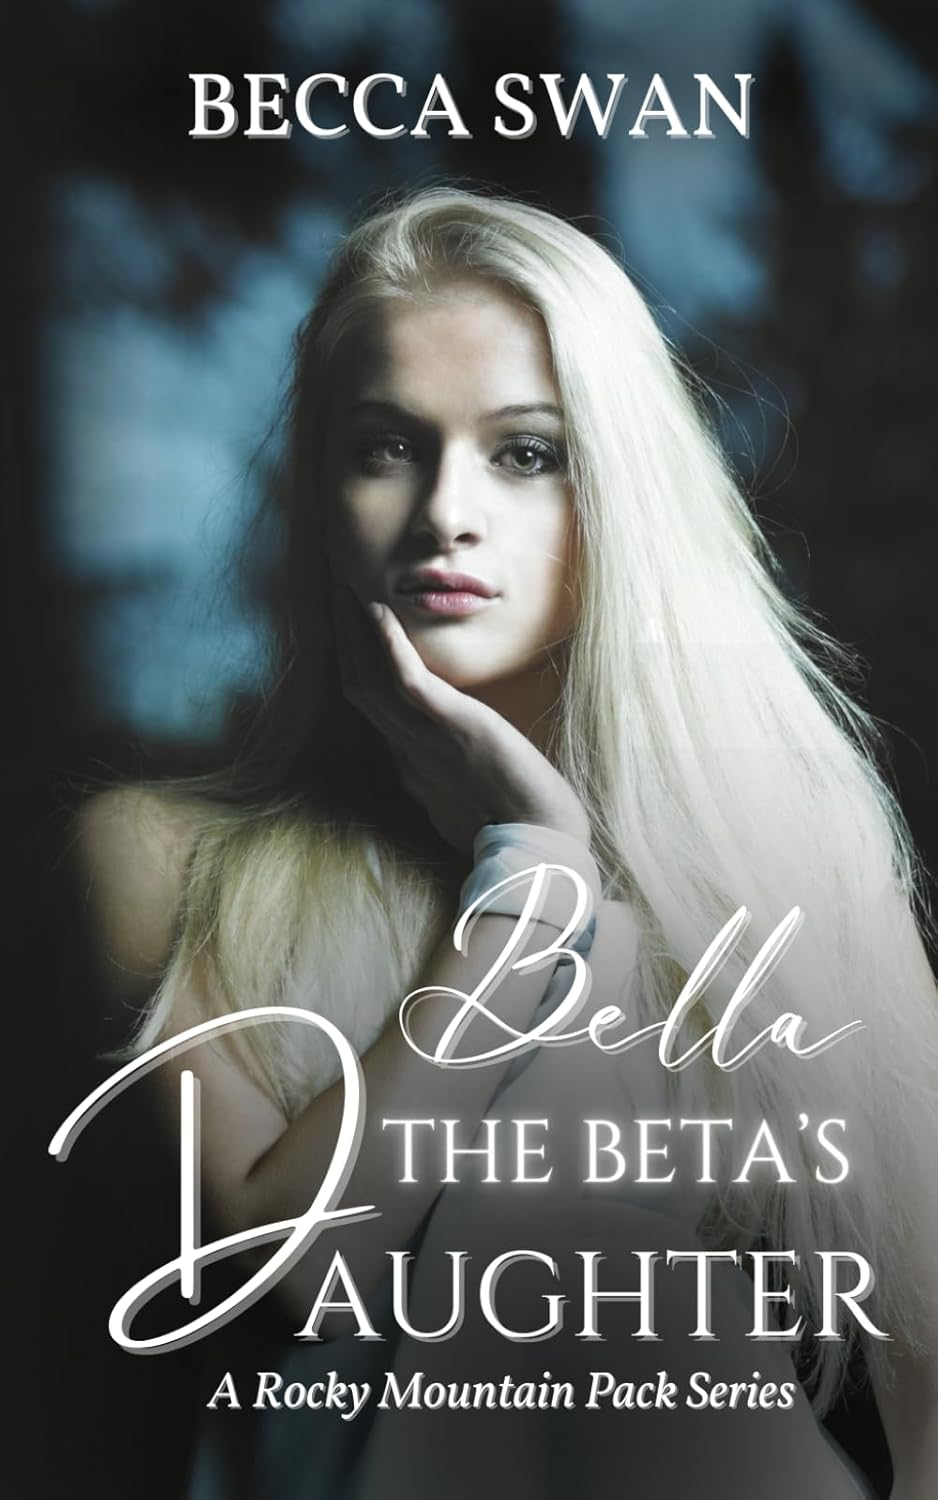
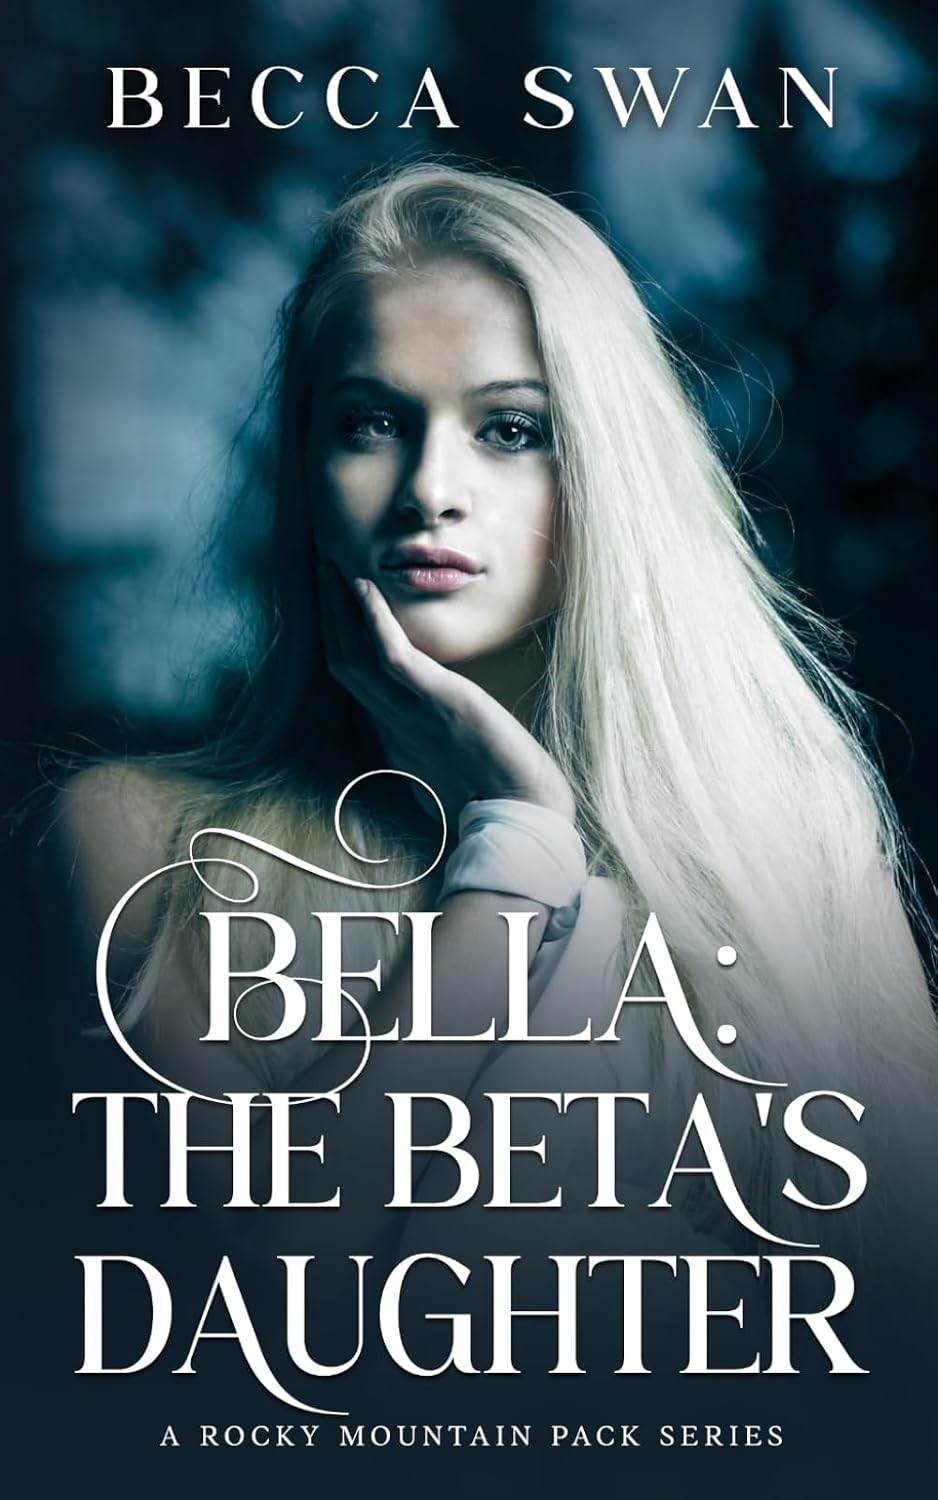
Refresh Amazon covers and correct author tagline

diff --git a/index.html b/index.html
@@ -3,15 +3,15 @@
   <head>
     <meta charset="utf-8">
     <meta name="viewport" content="width=device-width, initial-scale=1">
-    <title>Becca Swan | Author | Writing Strong Female Leads Where It’s Always Darkest Before the Dawn</title>
-    <meta name="description" content="Official website of author Becca Swan. Shifter romance, Christmas stories and psychological suspense with strong female leads, where it’s always darkest before the dawn.">
+    <title>Becca Swan | Author | Writing Strong Female Leads Where It’s Always Darkest Before Dawn</title>
+    <meta name="description" content="Official website of author Becca Swan. Shifter romance, Christmas stories and psychological suspense with strong female leads, where it’s always darkest before dawn.">
     <meta name="theme-color" content="#0c0a0a">
     <meta name="color-scheme" content="dark">
     <link rel="canonical" href="https://www.beccaswan.com/">
     <meta property="og:type" content="website">
     <meta property="og:site_name" content="Becca Swan">
     <meta property="og:title" content="Becca Swan | Author">
-    <meta property="og:description" content="Official website of author Becca Swan. Shifter romance, Christmas stories and psychological suspense with strong female leads, where it’s always darkest before the dawn.">
+    <meta property="og:description" content="Official website of author Becca Swan. Shifter romance, Christmas stories and psychological suspense with strong female leads, where it’s always darkest before dawn.">
     <meta property="og:url" content="https://www.beccaswan.com/">
     <meta property="og:image" content="https://www.beccaswan.com/assets/becca-swan-share.jpg">
     <meta property="og:image:width" content="1200">
@@ -19,7 +19,7 @@
     <meta property="og:image:alt" content="Becca Swan red wolf logo beside the covers of Bella: The Beta’s Daughter, Luna Aleksa’s Escape and The Bach.">
     <meta name="twitter:card" content="summary_large_image">
     <meta name="twitter:title" content="Becca Swan | Author">
-    <meta name="twitter:description" content="Official website of author Becca Swan. Shifter romance, Christmas stories and psychological suspense with strong female leads, where it’s always darkest before the dawn.">
+    <meta name="twitter:description" content="Official website of author Becca Swan. Shifter romance, Christmas stories and psychological suspense with strong female leads, where it’s always darkest before dawn.">
     <meta name="twitter:image" content="https://www.beccaswan.com/assets/becca-swan-share.jpg">
     <link rel="icon" href="assets/becca-swan-round-logo.jpg">
     <link rel="apple-touch-icon" href="assets/becca-swan-round-logo.jpg">
@@ -34,7 +34,7 @@
   "@type": "WebSite",
   "name": "Becca Swan",
   "url": "https://www.beccaswan.com/",
-  "description": "Writing strong female leads where it’s always darkest before the dawn.",
+  "description": "Writing strong female leads where it’s always darkest before dawn.",
   "publisher": {
     "@type": "Person",
     "name": "Becca Swan",
@@ -69,7 +69,7 @@
       <section class="home-hero">
         <div class="container">
           <div>
-            <h1>Writing strong female leads where it’s always <em>darkest before the dawn.</em></h1>
+            <h1>Writing strong female leads where it’s always <em>darkest before dawn.</em></h1>
             <p class="lead">Step into Becca Swan’s world, where strong women face danger, betrayal, romance, and unexpected twists, and where it’s always darkest before dawn.</p>
             <div class="actions">
               <a class="btn btn-primary" href="https://a.co/d/0edsc62Z" rel="noopener"><span class="hide-sm">Start with Luna Aleksa’s Escape</span><span class="show-sm">Start with book one</span></a>
